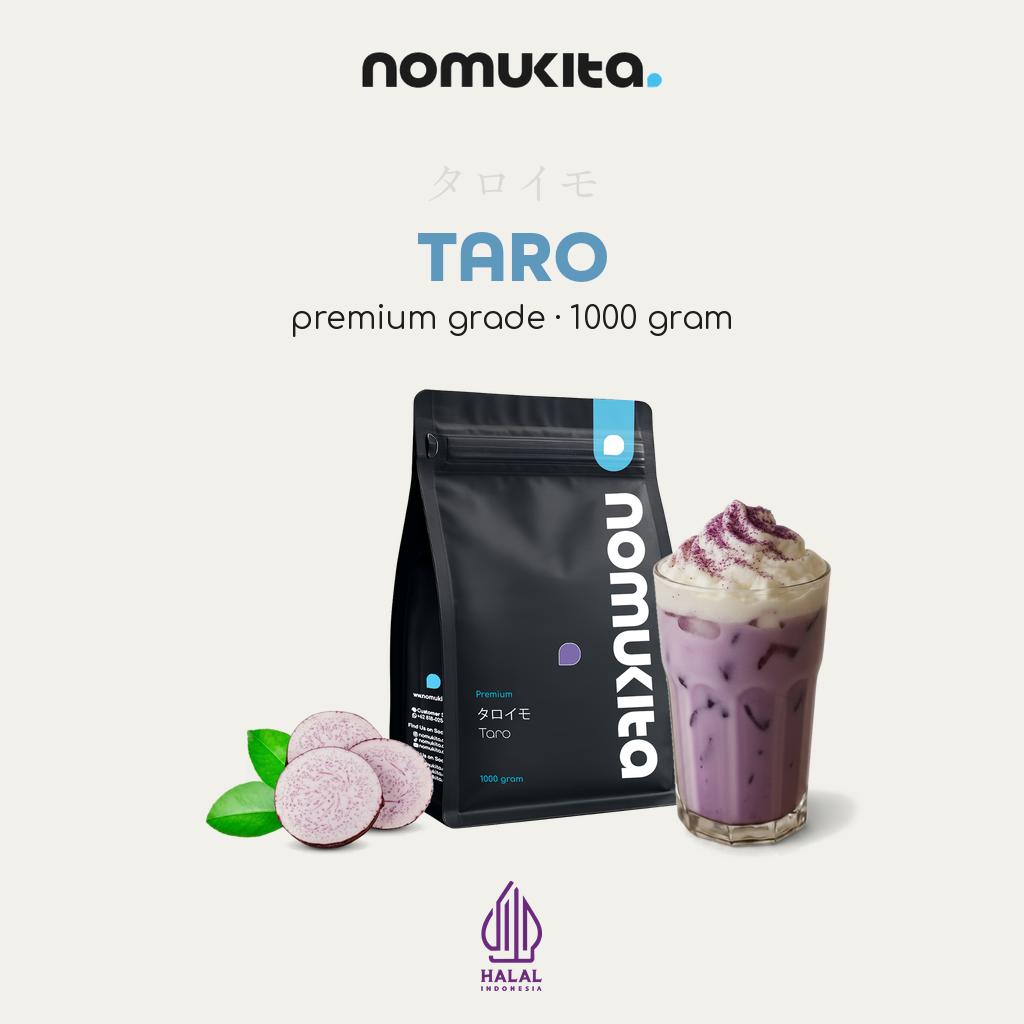
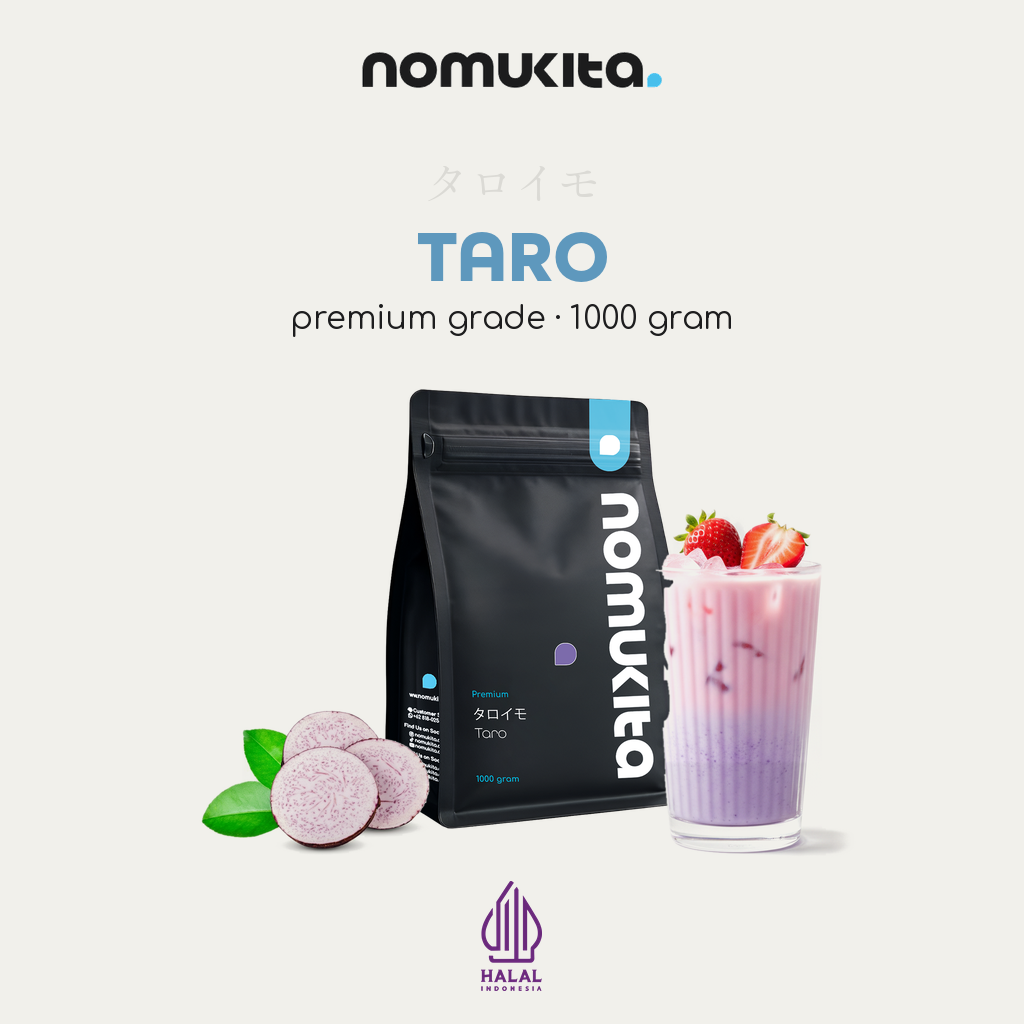
Taro slide 1: taro strawberry latte in a fluted glass
The customer replaced the Taro drink with a taro strawberry latte. Its
reference sits in a plastic cup, so the glass is swapped too, for a clear
fluted highball (GLASS_STYLE) - still footless, since the foot is where the
cocoa glasses broke. The generation copied the reference's grey wall and
white table, which printed as a faint box and a long table shadow on the
slide; level_sweep() divides each row by its edge backdrop to clean it.
The first Taro glass is kept as generated/glass-taro-v1.png.

Claude-Session: https://claude.ai/code/session_01A4GLsk6vKeeUp3C5p2a7yr

diff --git a/nomukita-carousel/batch.py b/nomukita-carousel/batch.py
@@ -60,7 +60,10 @@ DRINKS = {
     "puredarkcocoa": ("PureDarkCocoa_drink.jpg", None),
     "darkcocoa": ("DarkCocoa_drink.webp", None),
     "cappuccino": ("Cappucino_drink.jpg", None),
-    "taro": ("Taro_drink.jpg", None),
+    # Revisi: pelanggan mengganti minuman Taro dengan taro strawberry latte.
+    # Wadah di acuannya gelas plastik, jadi gelasnya ikut diganti (SWAP_GLASS,
+    # GLASS_STYLE). Gelas versi pertama disimpan sebagai generated/glass-taro-v1.png.
+    "taro": ("TaroStrawberry_drink.jpeg", None),
     # Ube: foto minuman dari pelanggan, gelas tabung lurus berisi lapisan ungu
     # dan putih dengan pusaran krim di atasnya, tanpa straw. Dipentaskan ulang
     # apa adanya.
@@ -118,6 +121,11 @@ PROPS = {
 # Produk yang gelasnya TIDAK diwarisi dari acuannya, dengan minuman yang harus
 # dituangkan ke gelas penggantinya.
 SWAP_GLASS = {
+    "taro": "an iced taro strawberry latte in two soft layers: a pink strawberry milk "
+            "layer on top blending into a lavender purple taro milk layer below, with fine "
+            "purple specks through it, clear ice cubes in the drink, and two fresh "
+            "strawberries - one whole with its green leaves and one cut in half - resting on "
+            "the ice at the top. No straw",
     "puredarkcocoa": "a thick dark chocolate milkshake, deep even cocoa brown, under a piped "
                      "dome of whipped cream with a thin dark chocolate drizzle over the cream "
                      "only. Nothing runs down the outside of the glass and nothing rests on "
@@ -457,6 +465,37 @@ def strip_watermark(src, dst, margin=60, light=225, sat=28):
     return dst
 
 
+def level_sweep(src, dst, left=(10, 300), right=(1004, 1020), keep=(330, 700), fade=60):
+    """Ratakan latar studio yang tidak rata menjadi putih bersih.
+
+    Dipakai pada gelas Taro: acuannya berlatar dinding abu-abu dan meja putih,
+    dan model menyalin sambungan itu (garis di y~715, abu-abu 234 di atas, 246
+    di bawah, makin gelap ke kanan). Di slide, latar seperti itu tercetak sebagai
+    kotak samar di belakang gelas, ditambah bayangan meja yang memanjang ke kanan.
+
+    Tiap baris dibagi dengan garis lurus yang ditarik antara rata-rata kolom tepi
+    kiri dan tepi kanan - keduanya selalu latar - jadi latar menjadi 255 dan gelas
+    serta bayangannya tetap relatif terhadap latarnya. Bayangan di luar rentang x
+    `keep` (lebar gelas) dipudarkan ke putih supaya yang tersisa hanya bayangan
+    kontak di bawah dasar gelas.
+    """
+    import numpy as np
+    from PIL import Image
+    a = np.asarray(Image.open(src).convert("RGB"), dtype=np.float32)
+    h, w = a.shape[:2]
+    L = a[:, left[0]:left[1]].mean(1)                # (h, 3)
+    R = a[:, right[0]:right[1]].mean(1)
+    xl, xr = sum(left) / 2, sum(right) / 2
+    t = ((np.arange(w) - xl) / (xr - xl))[None, :, None]
+    bg = L[:, None, :] * (1 - t) + R[:, None, :] * t
+    r = np.clip(a / bg, 0, 1)
+    x = np.arange(w)
+    wgt = np.clip(1 - np.maximum(keep[0] - x, x - keep[1]) / fade, 0, 1)[None, :, None]
+    r = 1 - (1 - r) * np.maximum(wgt, 0)
+    Image.fromarray(np.rint(r * 255).astype(np.uint8)).save(dst)
+    return dst
+
+
 def upload(name):
     b64 = base64.b64encode(open(os.path.join(REF, name), "rb").read()).decode()
     ext = name.lower().rsplit(".", 1)[-1]
@@ -497,6 +536,22 @@ def run(prompt, urls, size, out, tries=2):
     return None
 
 
+# Gelas pengganti per produk; yang tidak terdaftar memakai tumbler lurus NEW_GLASS.
+# Taro diminta "gelas yang lebih estetik": highball bening bergaris vertikal, gaya
+# kafe. Tetap tanpa kaki dan tanpa batang - kaki gelas adalah tempat cacat cocoa
+# dulu muncul (isi putih di lengkungan, kaki keruh, terpotong di slide 300 g).
+FLUTED_GLASS = (
+    "Do NOT copy the cup from the photograph - it is a plastic cup and must be replaced. "
+    "Serve the drink in a tall clear FLUTED highball glass instead: colourless glass with "
+    "fine evenly spaced vertical ribs running up the outside wall, tapering very slightly "
+    "wider toward the rim, a clean bright smooth rim and a thick flat clear base. NO stem, "
+    "NO foot, NO handle, nothing tinted, smoked or frosted, and no bright white fill "
+    "anywhere in the base. The drink colour must read clearly through the ribs. "
+    "Fill it with {desc}. Keep the drink appetising, with real texture."
+)
+GLASS_STYLE = {"taro": FLUTED_GLASS}
+
+
 def main(only=None):
     os.makedirs(OUT, exist_ok=True)
     cache = {}
@@ -516,7 +571,7 @@ def main(only=None):
         if slug in CHECKERED_DRINK:
             flood_white(*CHECKERED_DRINK[slug])
         if slug in SWAP_GLASS:
-            what = NEW_GLASS.format(desc=SWAP_GLASS[slug])
+            what = GLASS_STYLE.get(slug, NEW_GLASS).format(desc=SWAP_GLASS[slug])
         else:
             what = KEEP_GLASS_AND_DRINK if desc is None else KEEP_GLASS_ONLY.format(desc=desc)
         prompt = DRINK_PROMPT.format(what=what, sweep=WHITE_SWEEP,
